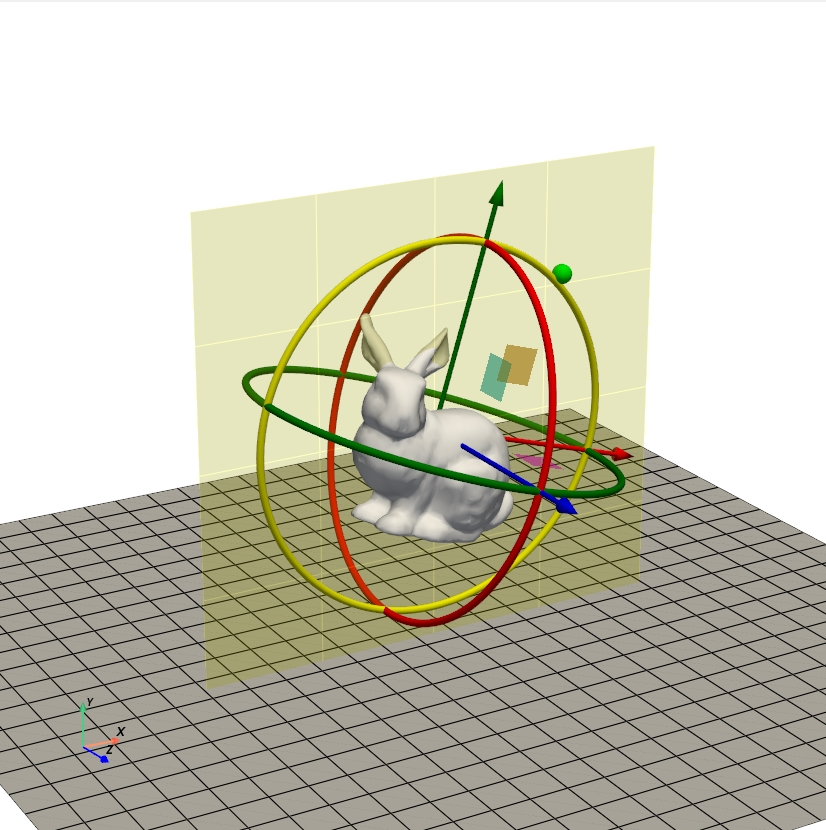
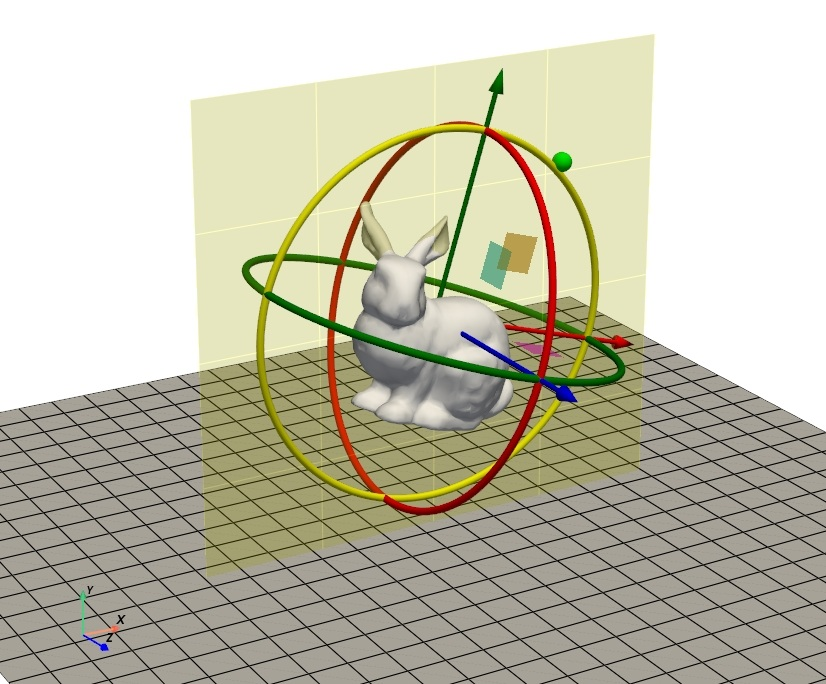
preview image

diff --git a/README.md b/README.md
@@ -2,7 +2,7 @@
 
 This project is an implementation of a reusable 3D transformation widget in Python.
 
-![3D transformation widget](./data/preview.png "3D transformation widget")
+<img src="/data/preview.png" alt="3D transformation widget" width="450">
 
 ### Installation
 The repo is developed and tested under Python 3.10.
